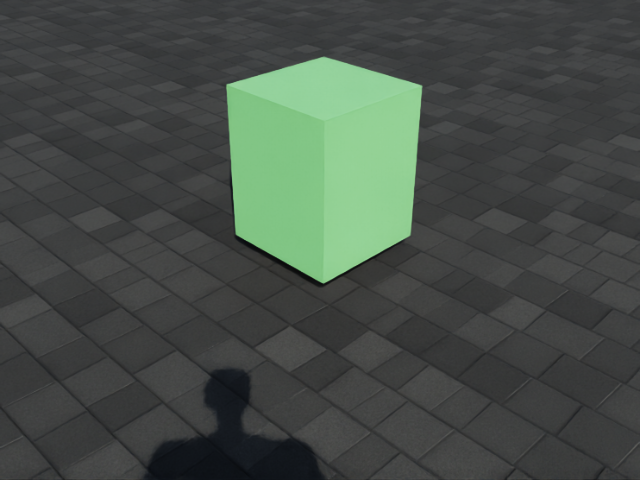
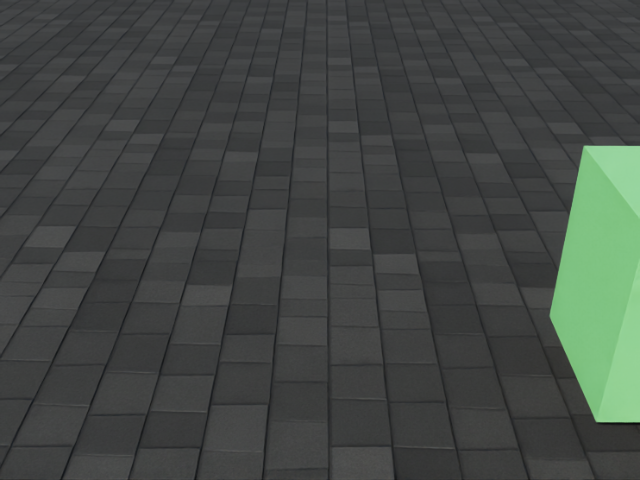
Fixed ego capture setting yaw that changes coords system of robot

diff --git a/pipeline/capture_egocentric.py b/pipeline/capture_egocentric.py
@@ -34,6 +34,9 @@ parser.add_argument("--width", type=int, default=640)
 parser.add_argument("--height", type=int, default=480)
 parser.add_argument("--pitch-deg", type=float, default=60.0,
                     help="Camera downward tilt in degrees (0=horizontal, 90=straight down)")
+parser.add_argument("--robot-yaw-deg", type=float, default=0.0,
+                    help="Fixed robot yaw in degrees (0 = faces +X, matches eval default). "
+                         "Tweak to match the eval starting orientation for the task.")
 parser.add_argument("--warmup-steps", type=int, default=10)
 parser.add_argument("--prefix", type=str, default="ego")
 parser.add_argument("--seed", type=int, default=0)
@@ -77,7 +80,7 @@ def main():
         get_egocentric_camera,
         capture_egocentric_frame,
         save_egocentric_frame,
-        orient_robot_toward_objects,
+        orient_robot_with_yaw,
     )
     patch_scene_with_egocentric_camera(
         width=args.width, height=args.height, pitch_deg=args.pitch_deg
@@ -142,7 +145,7 @@ def main():
         print("[capture] Resetting environment ...")
         env.reset()
 
-        orient_robot_toward_objects(env.simulator, env_idx=0)
+        orient_robot_with_yaw(env.simulator, yaw_deg=args.robot_yaw_deg, env_idx=0)
 
         # Render-only warmup (no physics) so robot stays standing
         for _ in range(args.warmup_steps):

diff --git a/pipeline/egocentric_camera.py b/pipeline/egocentric_camera.py
@@ -104,6 +104,30 @@ def capture_egocentric_frame(camera, env_idx: int = 0, dt: float = 0.0) -> dict:
     return {"image_rgb": rgb.astype(np.uint8)}
 
 
+def orient_robot_with_yaw(simulator, yaw_deg: float = 0.0, env_idx: int = 0):
+    """Set the robot root yaw to a fixed angle. Call after env.reset().
+
+    yaw_deg=0 matches the default eval orientation (robot faces +X).
+    Adjust to match whatever the eval starting pose is for the task.
+    """
+    import torch
+
+    yaw = math.radians(yaw_deg)
+    robot = simulator._robot
+    root_state = robot.data.default_root_state[env_idx].clone().unsqueeze(0)
+    root_state[0, :3] = robot.data.root_pos_w[env_idx]
+    root_state[0, 3] = math.cos(yaw / 2)  # w
+    root_state[0, 4] = 0.0                 # x
+    root_state[0, 5] = 0.0                 # y
+    root_state[0, 6] = math.sin(yaw / 2)   # z
+    root_state[0, 7:] = 0.0
+
+    env_ids = torch.tensor([env_idx], device=robot.device)
+    robot.write_root_state_to_sim(root_state.to(robot.device), env_ids)
+    simulator._sim.step(render=True)
+    print(f"[ego_camera] Robot yaw set to {yaw_deg:.1f}°")
+
+
 def orient_robot_toward_objects(simulator, env_idx: int = 0):
     """Yaw the robot root to face the first scene object. Call after env.reset()."""
     import torch

diff --git a/tasks/walk_to_obj/create_scene.py b/tasks/walk_to_obj/create_scene.py
@@ -19,7 +19,7 @@ from protomotions.components.scene_lib import (
 
 
 def create_walk_scene(
-    box_pos: tuple = (1.5, -1.5, 0.25),
+    box_pos: tuple = (1.5, -0.8, 0.25),
     box_width: float = 0.4,
     box_depth: float = 0.4,
     box_height: float = 0.5,
@@ -47,7 +47,7 @@ def parse_color(s: str) -> tuple:
 
 if __name__ == "__main__":
     parser = argparse.ArgumentParser()
-    parser.add_argument("--box-pos", nargs=3, type=float, default=[1.5, -1.5, 0.25],
+    parser.add_argument("--box-pos", nargs=3, type=float, default=[1.5, -0.8, 0.25],
                         metavar=("X", "Y", "Z"))
     parser.add_argument("--box-width", type=float, default=0.4)
     parser.add_argument("--box-depth", type=float, default=0.4)

diff --git a/pipeline/generate_motion.py b/pipeline/generate_motion.py
@@ -236,7 +236,7 @@ def main():
     )
 
     # ── Save CSV ───────────────────────────────────────────────────────────
-    csv_path = output_dir / "reach.csv"
+    csv_path = output_dir / f"{args.task}.csv"
     converter = MujocoQposConverter(model.skeleton)
     qpos = converter.dict_to_qpos(output, device)
     converter.save_csv(qpos, str(csv_path))
